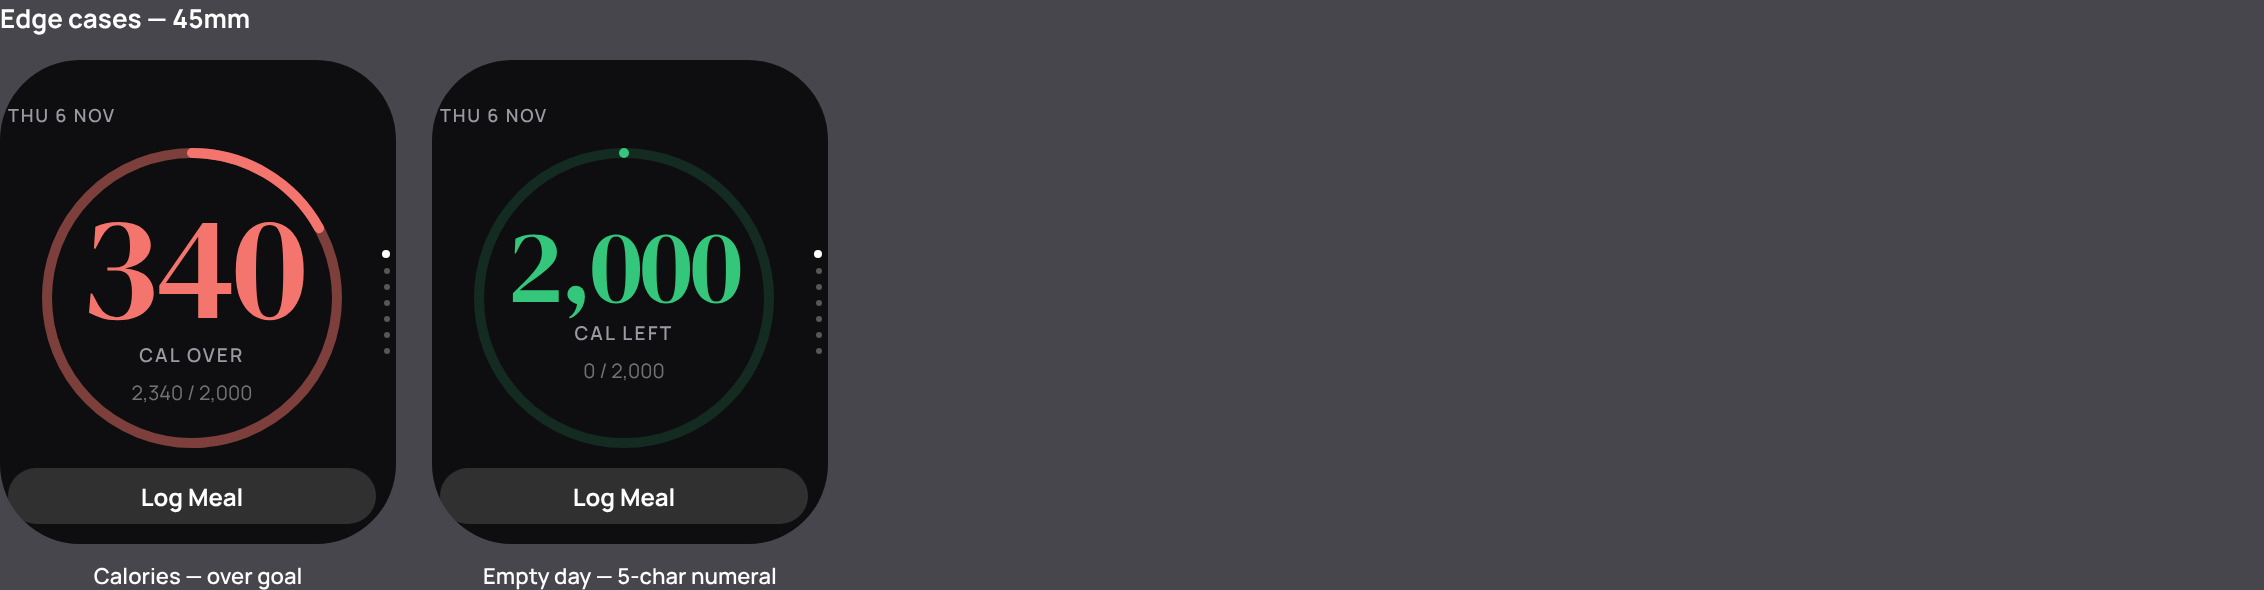
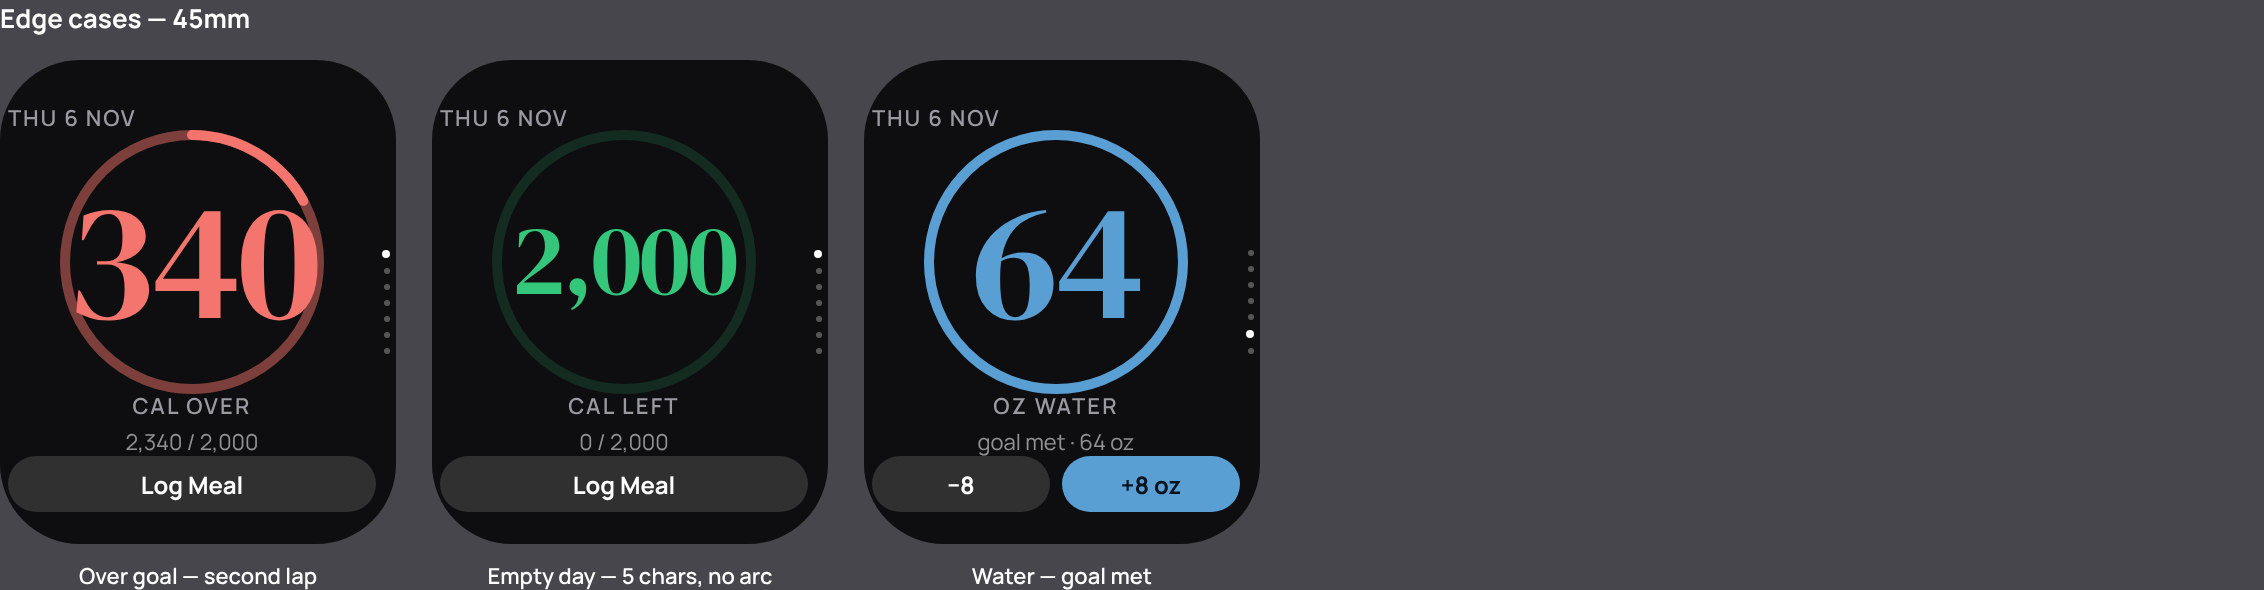
Fix the watch stack against the finish review
The review came back `fix` with eight material findings. Seven are addressed
here; the eighth cannot be, and is reported rather than quietly dropped.

THE NUMERAL. The reviewer was right, and right about the cause: capping the
arc at 150 did not prevent the ring-drawn-around-a-reading arrangement, it
produced it. With the numeral, the label and the caption all inside the
stroke, something had to shrink, and it was the numeral. Now only the numeral
sits inside; the label and caption moved to clear space beneath. The arc is no
longer a fixed size — it takes whatever square is left once everything else
has its height — and the numeral is a fraction of that diameter, so three
digits run to about the arc's full width and cross it. That also fixed a
second defect the render then exposed: the caption had been sitting on the
arc's lower stroke.

TEXT SIZE. Every WatchType helper now passes relativeTo:, so the watch's
text-size setting scales the app instead of being ignored, and the 9/9.5/10pt
chrome is up at 11. Checked at x1.3, which is where the previous layout fell
apart: because the arc yields its height to the labels rather than being
overrun by them, it now holds. The one deliberate exception is the hero
numeral, which is sized off the arc it is drawn over rather than off the
setting — the circle has already done the yielding on its behalf.

Also: a shared baseline across stops, so the arc holds position as the crown
[…]

diff --git a/MacroTracker/targets/watch/content.swift b/MacroTracker/targets/watch/content.swift
@@ -182,24 +182,31 @@ let watchSnapshotKey = "watchDayStats"
 ///
 /// The phone's rule (src/theme/index.ts) is that `fontDisplay` carries
 /// headlines and hero numerals and the body ladder carries everything else.
-/// The watch has exactly one hero numeral — the calories figure — so that is
-/// the only place the serif appears; labels stay on Manrope, which holds up
-/// at 11pt where a serif would not.
+/// The watch follows the same rule: the serif is on each stop's hero numeral
+/// and on the three short headings (Train, Start Workout, Workout Complete),
+/// and nothing else. Labels stay on Manrope, which holds up at 11pt where a
+/// serif would not, and so do two numerals that change while you watch them —
+/// the workout clock and the live heart rate — because DM Serif Display has
+/// no tabular figures and would jitter sideways on every tick.
+///
+/// Every size passes through `relativeTo:`, so the watch's own text-size
+/// setting scales the app instead of being ignored. Sizes below are the
+/// default-setting values, not fixed points.
 ///
 /// Every call falls back to the system face, so a build where the fonts did
 /// not register renders plainly instead of blank.
 enum WatchType {
-    static func display(_ size: CGFloat) -> Font {
-        Font.custom("DMSerifDisplay-Regular", size: size)
+    static func display(_ size: CGFloat, relativeTo style: Font.TextStyle = .title) -> Font {
+        Font.custom("DMSerifDisplay-Regular", size: size, relativeTo: style)
     }
-    static func body(_ size: CGFloat) -> Font {
-        Font.custom("Manrope-Medium", size: size)
+    static func body(_ size: CGFloat, relativeTo style: Font.TextStyle = .body) -> Font {
+        Font.custom("Manrope-Medium", size: size, relativeTo: style)
     }
-    static func semibold(_ size: CGFloat) -> Font {
-        Font.custom("Manrope-SemiBold", size: size)
+    static func semibold(_ size: CGFloat, relativeTo style: Font.TextStyle = .body) -> Font {
+        Font.custom("Manrope-SemiBold", size: size, relativeTo: style)
     }
-    static func bold(_ size: CGFloat) -> Font {
-        Font.custom("Manrope-Bold", size: size)
+    static func bold(_ size: CGFloat, relativeTo style: Font.TextStyle = .body) -> Font {
+        Font.custom("Manrope-Bold", size: size, relativeTo: style)
     }
 }
 
@@ -777,71 +784,104 @@ struct StopCard<Action: View>: View {
     /// each set at a size chosen for them instead of one size shrunk to fit
     /// the longest case. minimumScaleFactor stays as the floor under a goal
     /// nobody anticipated.
-    private var numeralSize: CGFloat {
+    ///
+    /// The numeral as a fraction of the arc's diameter, by character count.
+    ///
+    /// A fraction rather than a point size, because the arc no longer has a
+    /// fixed diameter: it takes whatever height is left once the date, the
+    /// label, the caption and the action slot have taken theirs, which moves
+    /// with both the device class and the watch's text-size setting. 0.63
+    /// puts three DM Serif digits at roughly the arc's full width, so the
+    /// numeral crosses the stroke instead of sitting inside it.
+    private var numeralFactor: CGFloat {
         switch value.count {
-        case 0...3: return 74
-        case 4: return 62
-        case 5: return 52
-        default: return 44
+        case 0...3: return 0.63
+        case 4: return 0.50
+        case 5: return 0.38
+        default: return 0.30
         }
     }
 
     var body: some View {
         VStack(spacing: 0) {
             Text(date)
-                .font(WatchType.semibold(9))
+                .font(WatchType.semibold(11))
                 .tracking(0.9)
                 .textCase(.uppercase)
                 .foregroundColor(.secondary)
                 .frame(maxWidth: .infinity, alignment: .leading)
 
-            ZStack {
-                Circle()
-                    .stroke(tint.opacity(0.16), lineWidth: 5)
-                Circle()
-                    .trim(from: 0, to: isOver ? 1 : progress)
-                    .stroke(tint.opacity(isOver ? 0.38 : 1),
-                            style: StrokeStyle(lineWidth: 5, lineCap: .round))
-                    .rotationEffect(.degrees(-90))
-                if isOver {
-                    Circle()
-                        .trim(from: 0, to: overProgress)
-                        .stroke(tint, style: StrokeStyle(lineWidth: 5, lineCap: .round))
-                        .rotationEffect(.degrees(-90))
-                }
+            Spacer(minLength: 0)
 
-                VStack(spacing: 1) {
+            // Only the numeral goes inside the arc. The label and caption sit
+            // under it in clear space.
+            //
+            // Both earlier attempts put all three inside the stroke. The
+            // first shrank the numeral to 74pt to make room, which turned the
+            // arc into a ring drawn around a reading — the arrangement this
+            // screen exists to refuse. The second enlarged the numeral but
+            // left the caption crossing the arc's lower stroke, and at the
+            // larger watch text sizes the whole block overran the circle.
+            //
+            // The arc takes whatever square is left after everything else has
+            // its height, so the layout holds from a 40mm up to a 49mm and
+            // through the text-size setting: when the labels grow, the circle
+            // yields to them rather than being overrun.
+            GeometryReader { geo in
+                let d = min(geo.size.width, geo.size.height)
+                ZStack {
+                    Circle()
+                        .stroke(tint.opacity(0.16), lineWidth: 5)
+                    Circle()
+                        .trim(from: 0, to: isOver ? 1 : progress)
+                        .stroke(tint.opacity(isOver ? 0.38 : 1),
+                                style: StrokeStyle(lineWidth: 5, lineCap: .round))
+                        .rotationEffect(.degrees(-90))
+                    if isOver {
+                        Circle()
+                            .trim(from: 0, to: overProgress)
+                            .stroke(tint, style: StrokeStyle(lineWidth: 5, lineCap: .round))
+                            .rotationEffect(.degrees(-90))
+                    }
+                    // Sized off the arc, not off the text-size setting: this
+                    // numeral's job is to fill the circle it is drawn over,
+                    // and the circle has already yielded to the labels that
+                    // do scale.
                     Text(value)
-                        .font(WatchType.display(numeralSize))
+                        .font(.custom("DMSerifDisplay-Regular", fixedSize: d * numeralFactor))
                         .foregroundColor(tint)
                         .lineLimit(1)
                         .minimumScaleFactor(0.5)
-                    Text(label)
-                        .font(WatchType.semibold(9.5))
-                        .tracking(1.1)
-                        .textCase(.uppercase)
-                        .foregroundColor(.secondary)
-                    Text(caption)
-                        .font(WatchType.body(10))
-                        .foregroundColor(Color.white.opacity(0.42))
-                        .padding(.top, 5)
                 }
-                .padding(.horizontal, 10)
+                .frame(width: d, height: d)
+                .frame(maxWidth: .infinity, maxHeight: .infinity)
             }
-            // Squares itself against whatever width the watch has, so one
-            // layout serves 40mm through 49mm without a size class.
-            //
-            // Capped at 150. Left uncapped it grew to fill the panel — about
-            // 178pt on a 45mm — and at that size the arc stops being a thing
-            // the numeral sits in front of and becomes a ring drawn around
-            // it, which is the arrangement this screen exists to get away
-            // from. 150 against a 198pt panel is the proportion the chosen
-            // composition had.
             .aspectRatio(1, contentMode: .fit)
-            .frame(maxWidth: 150, maxHeight: 150)
             .frame(maxHeight: .infinity)
 
+            Text(label)
+                .font(WatchType.semibold(11))
+                .tracking(1.1)
+                .textCase(.uppercase)
+                .foregroundColor(.secondary)
+                .padding(.top, 4)
+            Text(caption)
+                // 0.55, not the 0.42 this was: composited on #0E0E10 that
+                // measured about 4.1:1, under the 4.5:1 floor for text this
+                // size.
+                .font(WatchType.body(11))
+                .foregroundColor(Color.white.opacity(0.55))
+                .lineLimit(1)
+                .minimumScaleFactor(0.7)
+
+            Spacer(minLength: 0)
+
+            // Reserved whether or not this stop has an action, so the arc
+            // holds its position as the crown pages. Letting EmptyView
+            // collapse moved the focal element ~20pt between a reading-only
+            // stop and one with a button, which is visible as a jump.
             action()
+                .frame(height: 34)
         }
         .padding(.horizontal, 4)
     }
@@ -941,6 +981,12 @@ struct ContentView: View {
             trainStop.tag(DayStop.train)
         }
         .tabViewStyle(.verticalPage)
+        // Switching the phone's water tracker off takes the tagged page out
+        // of the hierarchy; if the crown happened to be sitting on it, the
+        // selection would name a page that no longer exists.
+        .onChange(of: stats.showWater) { _, on in
+            if !on, stop == .water { stop = .calories }
+        }
         .background(stats.palette.ground.ignoresSafeArea())
         // Every control SwiftUI draws for us — the page indicator, Stepper's
         // ± buttons, the crown indicator — otherwise falls back to the
@@ -1163,7 +1209,7 @@ struct WorkoutView: View {
         }
         // The plan usually lands before the session does; this covers the case
         // where the push that carried it never arrived.
-        .onChange(of: workout.isActive) { _ in stats.requestPlanIfMissing() }
+        .onChange(of: workout.isActive) { _, _ in stats.requestPlanIfMissing() }
         .alert(
             "Couldn't Start Workout",
             isPresented: Binding(
@@ -1483,12 +1529,12 @@ struct SetEditView: View {
                     Stepper(value: $duration, in: 0...86400, step: 5) {
                         field("Time", timeString(TimeInterval(duration)))
                     }
-                    .onChange(of: duration) { _ in pushEdit() }
+                    .onChange(of: duration) { _, _ in pushEdit() }
                 } else {
                     Stepper(value: $reps, in: 0...999, step: 1) {
                         field("Reps", "\(reps)")
                     }
-                    .onChange(of: reps) { _ in pushEdit() }
+                    .onChange(of: reps) { _, _ in pushEdit() }
                 }
 
                 // Doubles as the "done" action: mark the set complete and close
@@ -1521,7 +1567,7 @@ struct SetEditView: View {
     private func field(_ label: String, _ value: String) -> some View {
         VStack(alignment: .leading, spacing: 1) {
             Text(label).font(WatchType.body(11)).foregroundColor(.secondary)
-            Text(value).font(WatchType.display(20)).foregroundColor(.primary)
+            Text(value).font(WatchType.bold(20)).foregroundColor(.primary)
         }
     }
 

diff --git a/MacroTracker/src/hooks/useWatchSync.ts b/MacroTracker/src/hooks/useWatchSync.ts
@@ -6,6 +6,7 @@ import {
   sendWatchContext,
   setWatchPalette,
   setWatchSavedMeals,
+  repushWatchContext,
   subscribeWatchAddWater,
   subscribeWatchLogSavedMeal,
 } from '../services/watch';
@@ -107,7 +108,14 @@ export function useWatchSync(): void {
   useEffect(() => {
     return subscribeWatchLogSavedMeal((mealId) => {
       const meal = useStore.getState().savedMeals.find((m) => m.id === mealId);
-      if (!meal) return;
+      if (!meal) {
+        // Deleted since the last push. The watch has already added this
+        // meal's calories to its own display and nothing here is going to
+        // change, so without an explicit re-push it would keep them for the
+        // rest of the day.
+        repushWatchContext();
+        return;
+      }
       const now = Date.now();
       const date = todayString();
       const window = mealForNow();

diff --git a/MacroTracker/src/services/watch.ts b/MacroTracker/src/services/watch.ts
@@ -227,6 +227,16 @@ export function sendWatchContext(ctx: WatchContext): void {
   pushContext();
 }
 
+// Re-send the last context unchanged.
+//
+// Exists for the case where the watch acted optimistically and the phone
+// then did nothing: a saved meal whose id no longer resolves, for instance.
+// Every other push rides a state change, so without this the watch would sit
+// on totals the phone never agreed to and nothing would ever correct it.
+export function repushWatchContext(): void {
+  pushContext();
+}
+
 // Mirror the active pack's accents to the watch. The watch keeps its black
 // background whatever the pack — only the accents travel.
 // Takes WatchPalette rather than Record<string, string>: the body reads nine

diff --git a/MacroTracker/targets/watch/index.swift b/MacroTracker/targets/watch/index.swift
@@ -43,7 +43,7 @@ struct watchEntry: App {
         // only on delivery would leave the watch showing yesterday to anyone
         // who raises their wrist before logging breakfast — which is the
         // whole complaint.
-        .onChange(of: scenePhase) { phase in
+        .onChange(of: scenePhase) { _, phase in
             if phase == .active { DayStats.shared.zeroIfStale() }
         }
     }
